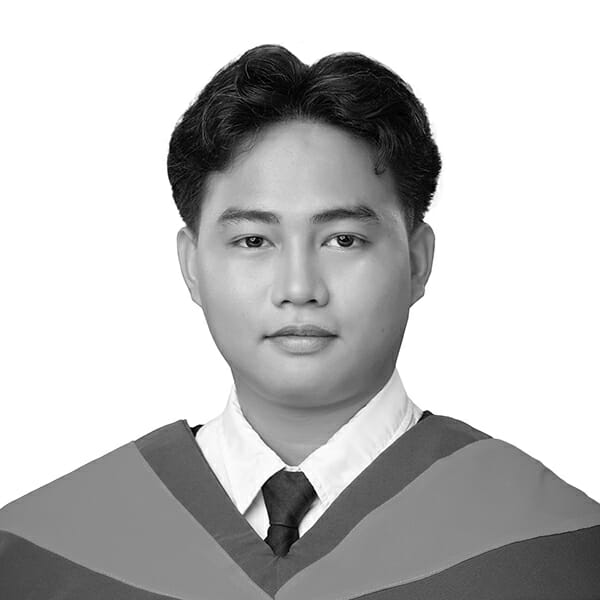
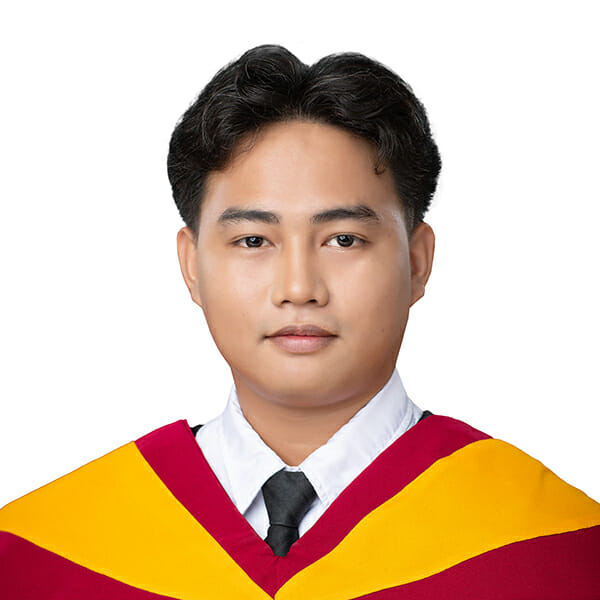
UPDATED: about-us pictures

diff --git a/FRONTEND/src/STUDENT/about-us.jsx b/FRONTEND/src/STUDENT/about-us.jsx
@@ -6,6 +6,8 @@ import "../assets/css/about-us.css";
 import dollanoImg from "../assets/img/dollano.jpg";
 import hortezanoImg from "../assets/img/hortezano.png";
 import segalleImg from "../assets/img/segalle.png";
+import huyoaImg  from "../assets/img/huyoa.jpg"
+import dakayImg from "../assets/img/dakay.jpg"
 
 import defaultAvatar from "../assets/img/robo-avatar.png"; 
 
@@ -27,13 +29,13 @@ const teamMembers = [
   },
   {
     name: "Miguel Antonio T. Dakay",
-    role: "Quality Assurance",
-    image: defaultAvatar, // Placeholder
+    role: "Quality Assurance & Frontend Developer",
+    image: dakayImg,
   },
   {
     name: "Mark Edwin E. Huyo-a",
     role: "Backend Developer",
-    image: defaultAvatar, // Placeholder
+    image: huyoaImg,
   },
 ];
 
